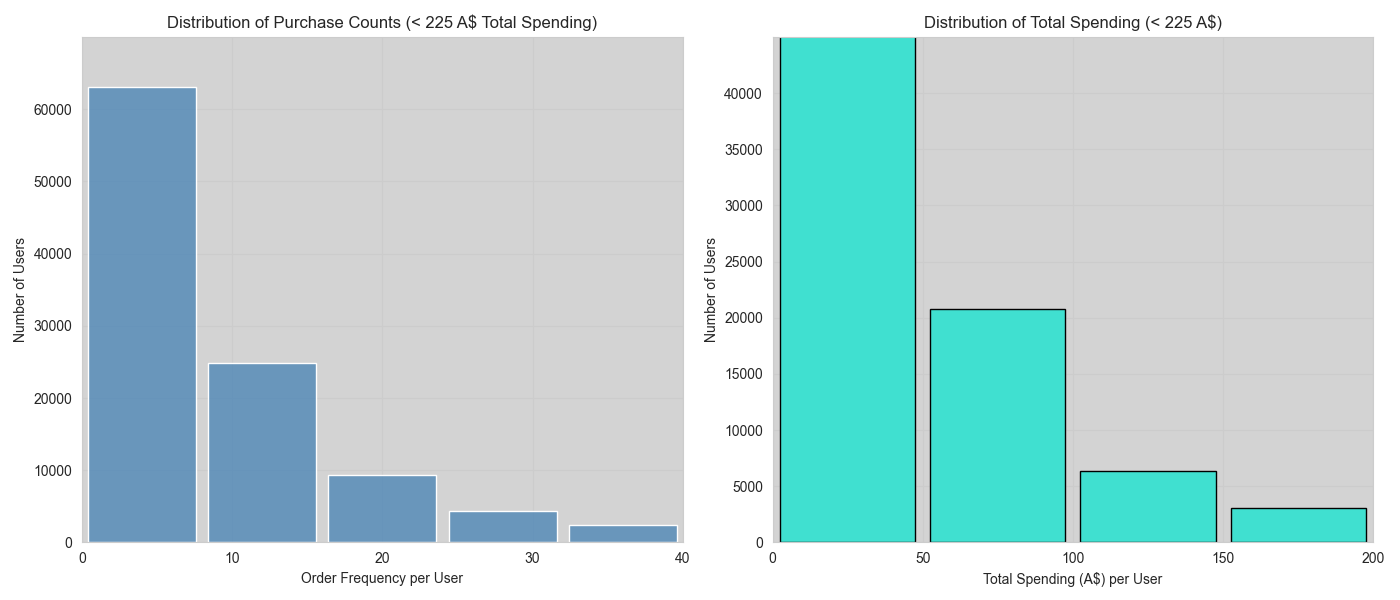
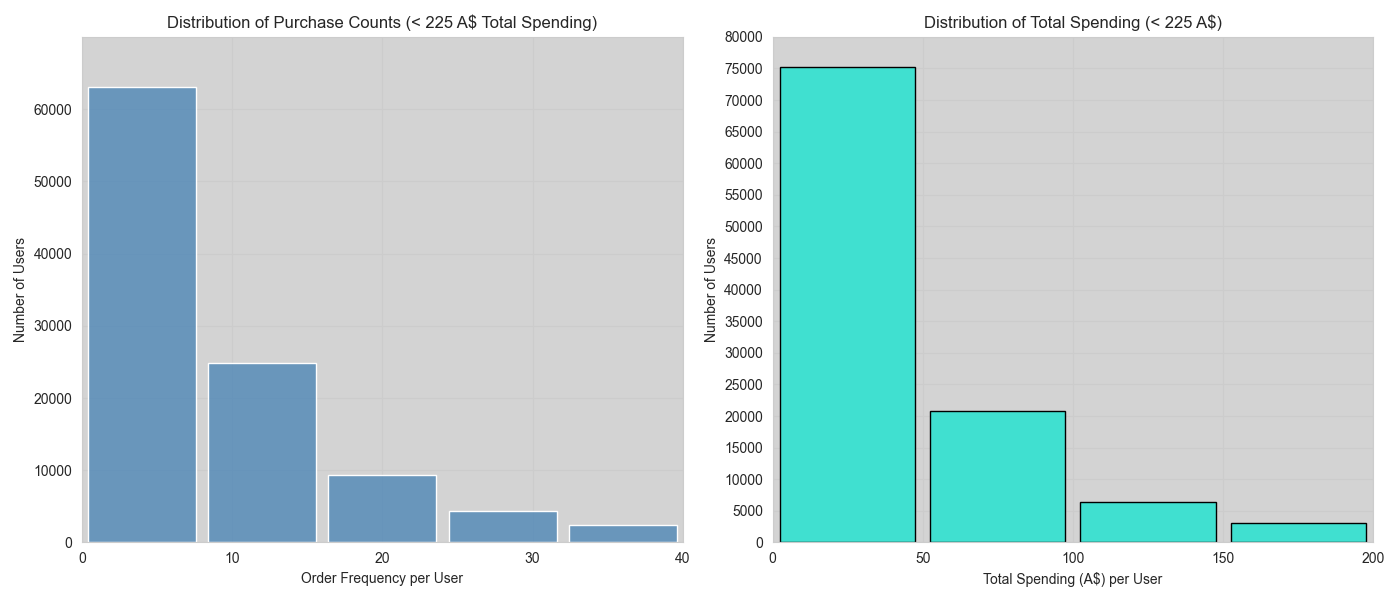
conex03perfecto

diff --git a/Data_viz/ex03/building.py b/Data_viz/ex03/building.py
@@ -81,7 +81,7 @@ def fetch_metrics(start, end):
         raise # Re-raise the exception
 
 
-def plot_histograms(df, outdir): # Removed bins parameter as it's defined internally
+def plot_histograms(df, outdir):
     """
     Dibuja dos histogramas lado a lado con estilo seaborn:
       - purchase_count (Frequency)
@@ -106,6 +106,7 @@ def plot_histograms(df, outdir): # Removed bins parameter as it's defined intern
     yticks_freq = np.arange(0, 60001, 10000) # Keep y-ticks up to 60000
 
     # Define bins to match the desired number of bars (5 bars covering 0-40)
+    # This means 5 equal intervals from 0 to 40, so bin edges are 0, 8, 16, 24, 32, 40
     bins_freq = np.arange(0, 41, 8)
 
 
@@ -135,8 +136,8 @@ def plot_histograms(df, outdir): # Removed bins parameter as it's defined intern
     xticks_monetary = np.arange(0, 201, 50) # Includes 200
 
     # Define specific y-axis limits and ticks as requested (0 to 40000, step 5000), y-axis limit up to 45000 for padding
-    ylim_monetary = (0, 45000)
-    yticks_monetary = np.arange(0, 40001, 5000) # Keep y-ticks up to 40000
+    ylim_monetary = (0, 80000)
+    yticks_monetary = np.arange(0, 80001, 5000) # Keep y-ticks up to 40000
 
     # Define bins to match the desired x-tick intervals (0-50, 50-100, 100-150, 150-200)
     bins_monetary = np.arange(0, 201, 50)
@@ -169,7 +170,6 @@ def main():
     parser.add_argument('--start', default='2022-10-01', help='Start date (YYYY-MM-DD)')
     parser.add_argument('--end', default='2023-02-28', help='End date (YYYY-MM-DD)')
     parser.add_argument('--outdir', default='.', help='Output directory')
-    # Removed --bins argument as binning is now explicitly defined for each plot
     args = parser.parse_args()
 
     os.makedirs(args.outdir, exist_ok=True)
@@ -193,5 +193,3 @@ def main():
 
 if __name__ == '__main__':
     main()
-
-
